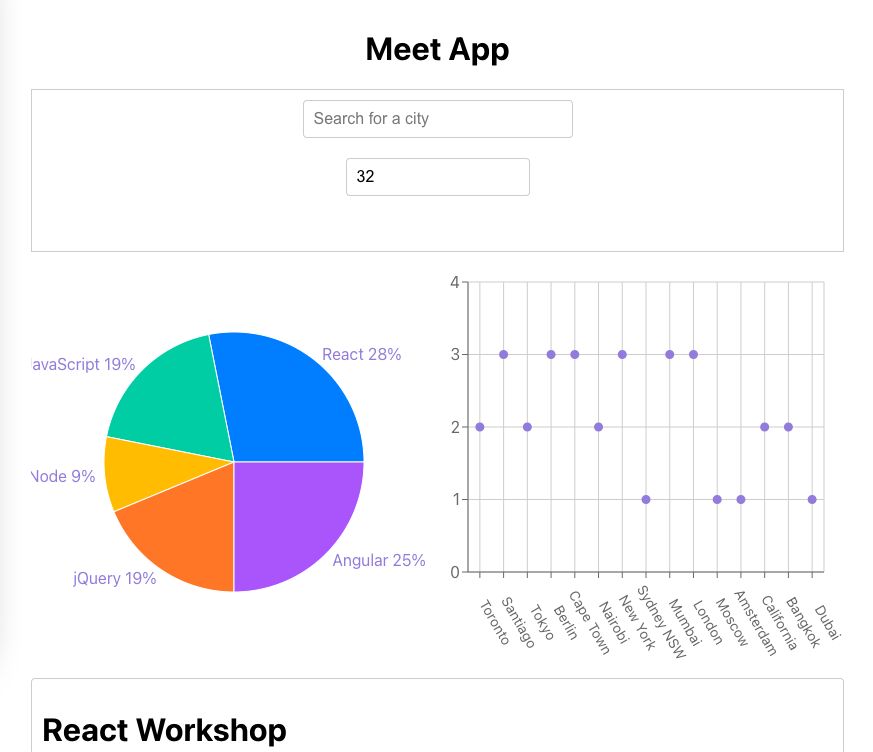
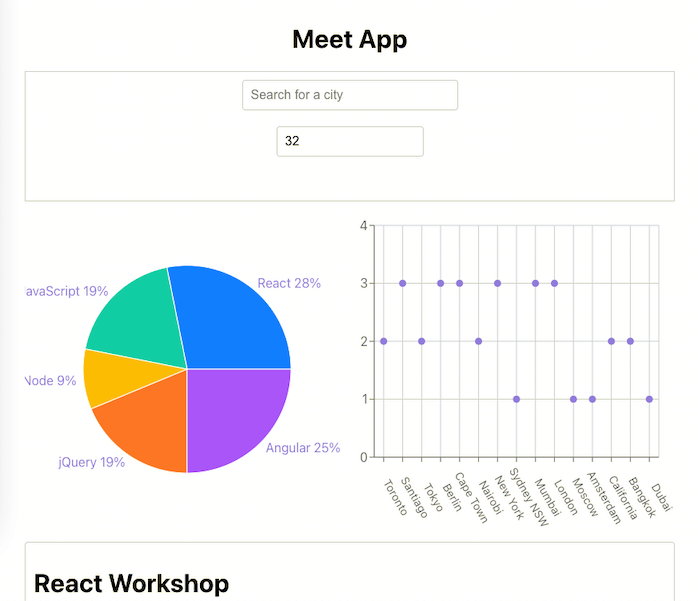
update work page

diff --git a/work.html b/work.html
@@ -65,6 +65,15 @@
                     <a class="a-opp" href="https://jmdb.herokuapp.com/">Check out this project live!</a>
                  </div>
                  <div class="project-list__item">
+                    <h2 class="h2-opp">Meet App</h2>
+                    <img src="img/meetapp.png"/>
+                    <p class="p-opp">
+                    This app is a a serverless, progressive web application (PWA)with React using a test-driven development (TDD) technique. The application uses the Google Calendar API to fetch upcoming events and uses the OAuth2 authentication flowd to authenticate visitors. Users can discover events from various cities and data is displayed using tools from Recharts.
+                    </p>
+                    <a class="a-opp" href="https://github.com/jaceyh/meet">Check out this project on Github.</a>
+                    <a class="a-opp" href="https://jaceyh.github.io/meet/">Check out the live app!</a>
+                 </div>
+                 <div class="project-list__item">
                     <h2 class="h2-opp">To Do List App</h2>
                     <p class="p-opp">
                        Within this project, I created a simple To Do List app using JavaScript and jQuery. The list allows users to add items to the list, cross items out, and drag to reorder items.
